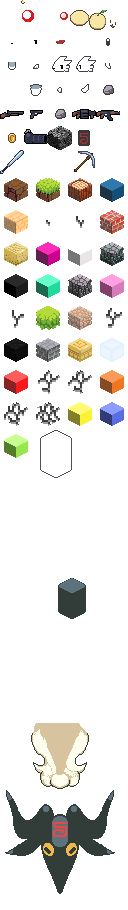
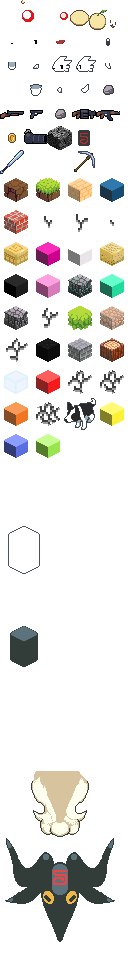
[Update] Tutorial NPC (Graphics, etc.)

diff --git a/Assets/Project-Isometric/IsometricGame/Entity/TutorialNPC.cs b/Assets/Project-Isometric/IsometricGame/Entity/TutorialNPC.cs
@@ -6,7 +6,15 @@ public class TutorialNPC : EntityCreature
 
     public TutorialNPC() : base(1f, 2f, 100f)
     {
+        _entityParts.Add(new EntityPart(this, "bordercollie"));
+    }
 
+    public override void Update(float deltaTime)
+    {
+        _entityParts[0].worldPosition = worldPosition + Vector3.up * 0.5f;
+        _entityParts[0].viewAngle = viewAngle;
+
+        base.Update(deltaTime);
     }
 
     public override void OnSpawn(Chunk chunk, Vector3 position)
